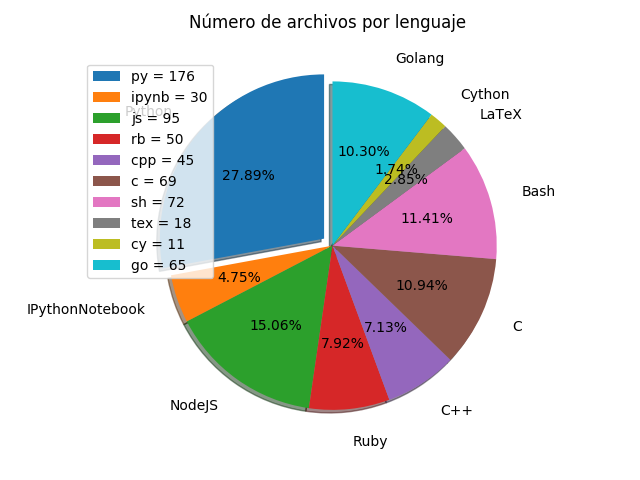
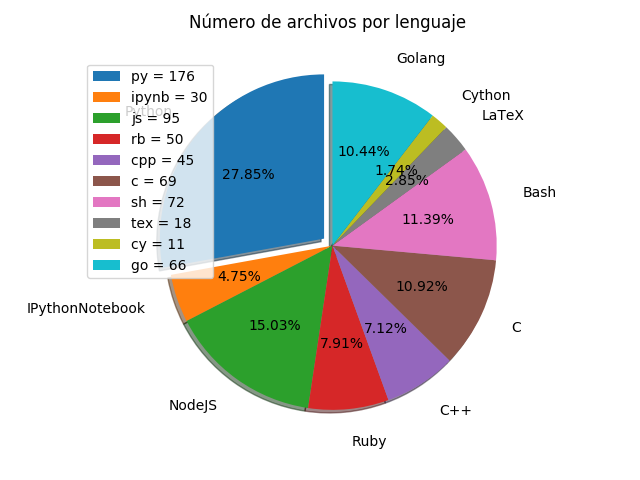
Execute NodeJS from Golang examples added.

diff --git a/backend/src/035-comunicacion_entre_lenguajes/go_js/js_from_go.go b/backend/src/035-comunicacion_entre_lenguajes/go_js/js_from_go.go
@@ -1,0 +1,33 @@
+package main
+
+import (
+    "fmt"
+    "github.com/robertkrimen/otto"
+)
+
+func main() {
+
+    // Ejecutar javascript desde Golang
+    vm := otto.New()
+    vm.Run(`
+    abc = 2 + 2;
+    console.log("El valor de 'abc' es " + abc);
+`)      // El valor de 'abc' es 4
+
+    // Obtener una variable del código Javascript
+    if value, err := vm.Get("abc"); err == nil {
+        if value_int, err := value.ToInteger(); err == nil {
+            fmt.Printf("%d\n", value_int)  // 4
+        }
+    }
+
+    // Establecer una variable del código Javascript
+    vm.Set("def", 11)
+    vm.Run(`
+        console.log("El valor de 'def' es " + def);
+`)      // El valor de 'def' es 11
+}
+
+/* Fuentes:
+https://github.com/robertkrimen/otto
+*/

diff --git a/backend/src/001-matematicas/README.md b/backend/src/001-matematicas/README.md
@@ -18,7 +18,8 @@ ___________________________________
 ### [Análisis matemático](https://github.com/mondeja/fullstack/tree/master/backend/src/001-matematicas/analisis)
 - [Funciones](https://github.com/mondeja/fullstack/tree/master/backend/src/001-matematicas/analisis/funciones/tipos.ipynb) (ipynb)
 - [Derivadas](https://github.com/mondeja/fullstack/tree/master/backend/src/001-matematicas/analisis/funciones/derivadas.ipynb) (ipynb)
-- [Máximos/mínimos de una función y el descenso por gradiente](https://github.com/mondeja/fullstack/tree/master/backend/src/001-matematicas/analisis/funciones/max_min_gd.ipynb)
+- [Máximos/mínimos de una función y el descenso por gradiente](https://github.com/mondeja/fullstack/tree/master/backend/src/001-matematicas/analisis/funciones/max_min_gd.ipynb) (ipynb)
+- [Programación funcional](https://github.com/mondeja/fullstack/tree/master/backend/src/001-matematicas/analisis/funciones/programacion_funcional.ipynb) (ipynb, go)
 
 ### [Estadística](https://github.com/mondeja/fullstack/tree/master/backend/src/001-matematicas/estadistica)
 - [Introducción a la estadística descriptiva](http://nbviewer.jupyter.org/github/mondeja/fullstack/blob/master/backend/src/001-matematicas/estadistica/descriptiva.ipynb) (ipynb)

diff --git a/backend/src/001-matematicas/analisis/funciones/README.md b/backend/src/001-matematicas/analisis/funciones/README.md
@@ -2,6 +2,3 @@
 
 Dados dos conjuntos A y B, una función (también mapeo) entre ellos es una asociación f que a cada elemento de A le asigna un único elemento de B. Se dice entonces que A es el **dominio** de f y que B es su **codominio**.
 
-- [Tipos de funciones](http://nbviewer.jupyter.org/github/mondeja/fullstack/blob/master/backend/src/001-matematicas/analisis/funciones/tipos.ipynb)
-- [Derivadas](http://nbviewer.jupyter.org/github/mondeja/fullstack/blob/master/backend/src/001-matematicas/analisis/funciones/derivadas.ipynb)
-- [Extremos y descenso por gradiente](http://nbviewer.jupyter.org/github/mondeja/fullstack/blob/master/backend/src/001-matematicas/analisis/funciones/max_min_gd.ipynb)

diff --git a/backend/src/035-comunicacion_entre_lenguajes/README.md b/backend/src/035-comunicacion_entre_lenguajes/README.md
@@ -2,4 +2,6 @@
 
 - [Python + Javascript en IPython Notebook](https://github.com/mondeja/fullstack/tree/master/backend/src/035-comunicacion_entre_lenguajes/py_js_ipynb/integration.ipynb) (py, js, ipynb)
 
-> Para más información sobre los puentes desde y hacia C/C++ ver [extensiones en C]().
+- [Ejecutar NodeJS desde Golang](https://github.com/mondeja/fullstack/tree/master/backend/src/035-comunicacion_entre_lenguajes/go_js/js_from_go.go)
+
+> Para más información sobre los puentes desde y hacia C/C++ ver [extensiones en C](https://github.com/mondeja/fullstack/tree/master/backend/src/022-extensiones_en_c).
